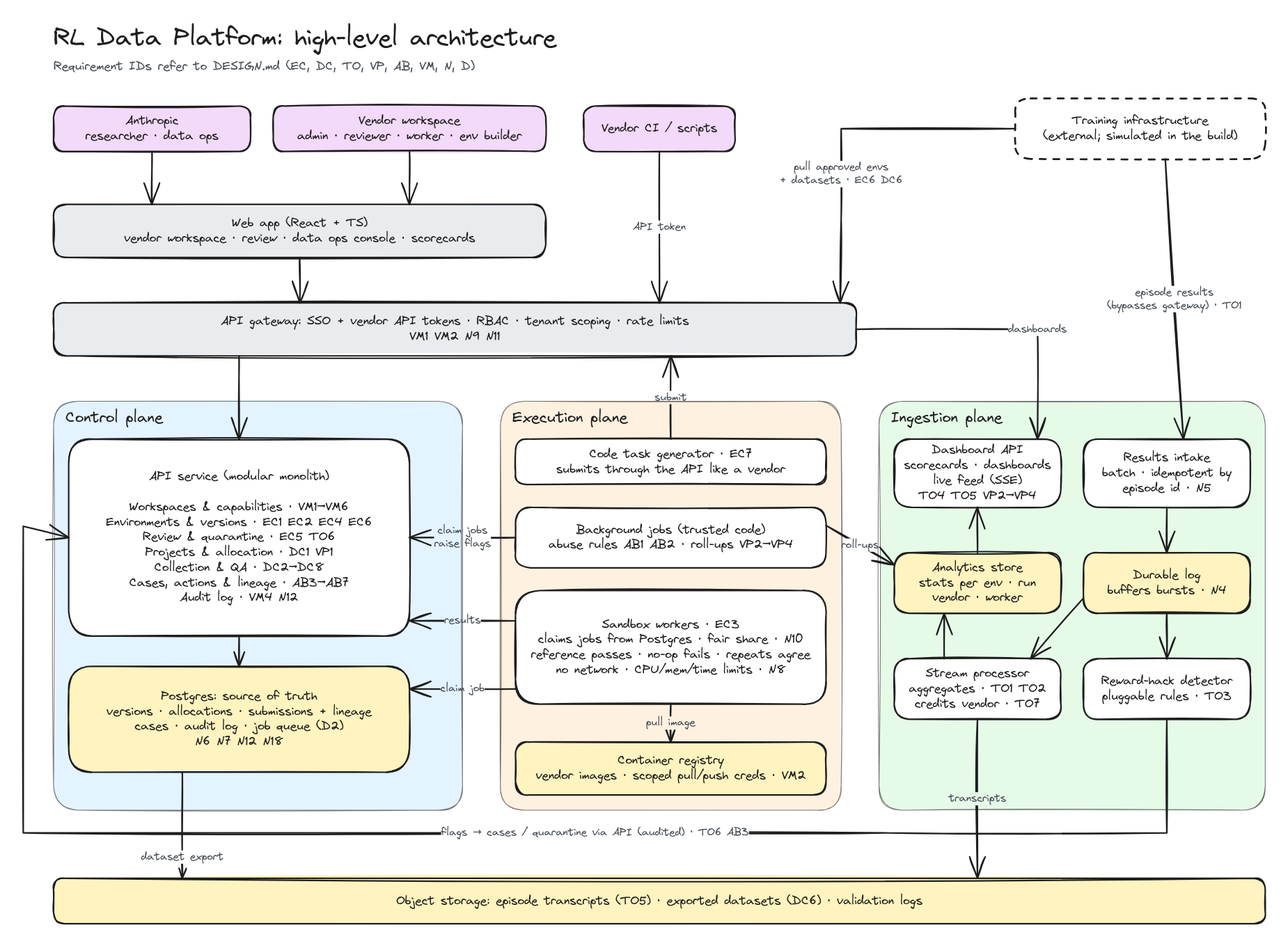
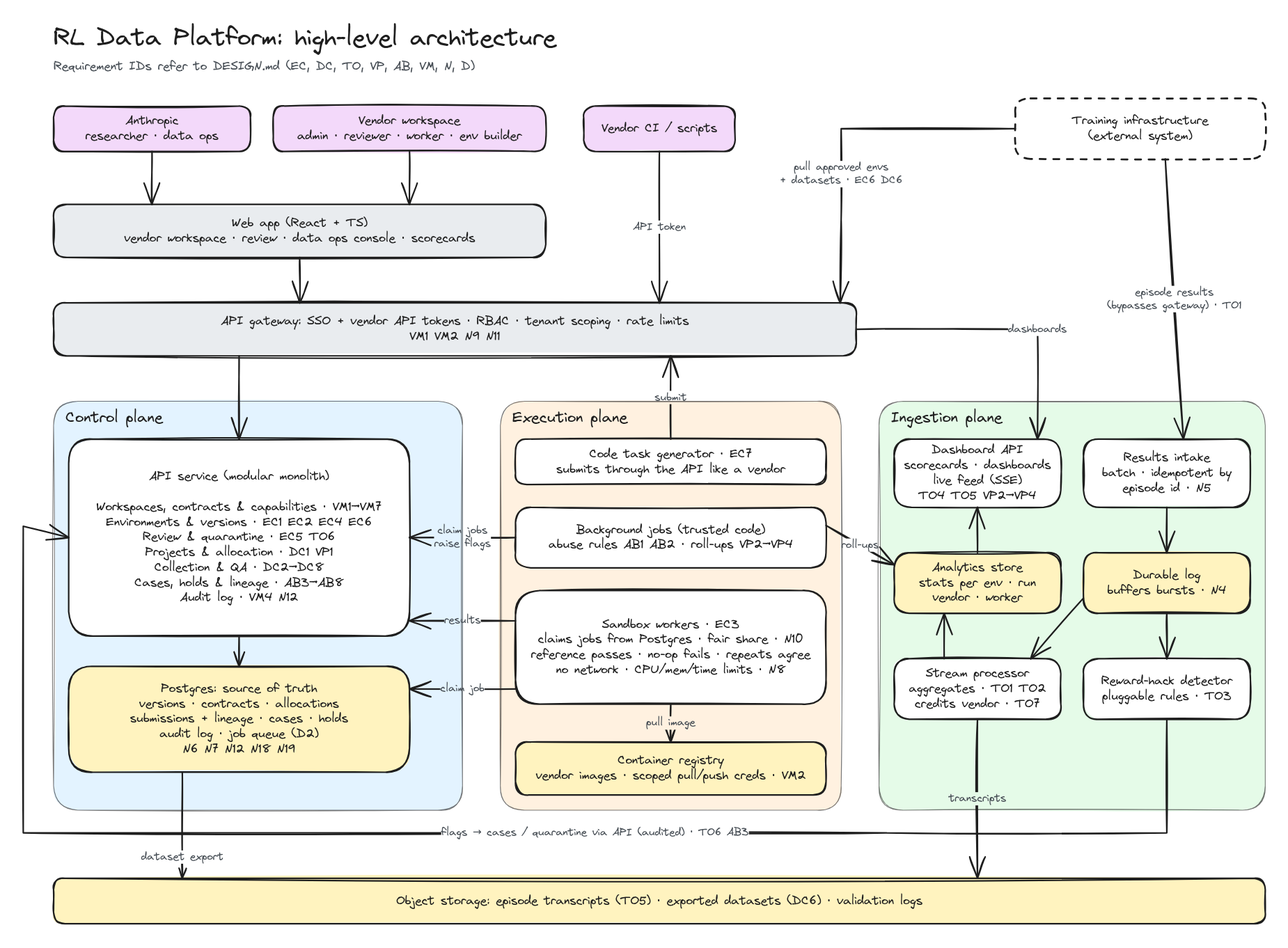
Close gaps between the PRD and the design, diagram and build plan
An audit of DESIGN.md against the PRD found three requirements the PRD
promises but the design didn't support, and three smaller mismatches.
Fixed together so the design, diagram and build plan stay consistent.

Gaps:
- Worker feedback (PRD C2.1): DC3 now has workers see reviewer
  rejections with reasons, never per-task gold results (PD2). API adds
  GET /me/feedback; walkthrough step 7 says so.
- Environment vendors couldn't be costed or scored (PD3, G6, TO7):
  price moved off Allocation into a new Contract entity (vendor, kind
  of work, price, unit, effective dates) recorded by data ops (new
  VM7); allocations point to a contract. Scorecard rows cover a project
  or a vendor's environment work; VP3 scores environment work on
  validation pass rate, review grades and training outcomes.
- Onboarding covered only environment vendors (PRD G7, C6.2): VM3
  checks setup per capability (sample task accepted, or sample
  environment passing); N14 targets first accepted work of either kind.

Mismatches:
- AB3 routes environment cases to data ops, matching PD4 and D13.
- Training "simulated in the build" (DESIGN §7, diagram, DECISIONS F3)
  predated scoping; the chosen build has no training. Now: an external
  system, with a script standing in until a real integration exists.
- Diagram: API modules show contracts (VM1-VM7) and holds (AB3-AB8);
  Postgres lists contracts, holds and N19; training box relabelled.
[…]

diff --git a/DESIGN.md b/DESIGN.md
@@ -61,7 +61,7 @@ Personas are described in the [PRD](PRD.md#3-who-cares-about-what). Each vendor 
 |---|---|---|---|
 | DC1 | A researcher creates a collection project: task type, instructions, answer schema (rate, compare, write, trajectory review), quality bar, volume and deadline | *"labeling workflows"*; *"many task types"*; *"complex agentic tasks"* | |
 | DC2 | Tasks are assigned to workers within the vendors allocated to the project (VP1) | *"human data collection at scale"* | |
-| DC3 | Workers complete tasks in a UI built for non-technical users | *"interfaces that are intuitive for both technical researchers and non-technical labelers"* | |
+| DC3 | Workers complete tasks in a UI built for non-technical users, and see feedback on their rejected work: reviewer rejections with the reviewer's reasons. Gold-task results are never shown per task (PRD PD2) | *"interfaces that are intuitive for both technical researchers and non-technical labelers"*; PRD C2.1 | |
 | DC4 | QA: gold tasks with known answers (rotated regularly), overlapping assignments to measure agreement, reviewer spot checks, and a quality score per worker, computed the same way for every vendor (N16) | *"quality assurance systems"* | A13 |
 | DC5 | Workers can flag broken tasks, and disagreement spikes raise alerts | *"feedback mechanisms that surface reward signal integrity issues early"* | A13 |
 | DC6 | QA-passed data is exported for training | *"connect environment authoring tools, data collection systems, and RL training infrastructure"* | A23 |
@@ -87,7 +87,7 @@ Personas are described in the [PRD](PRD.md#3-who-cares-about-what). Each vendor 
 |---|---|---|---|
 | VP1 | Data ops allocates a project across vendors whose capabilities match, and changes the allocation while it runs | PRD C1.2; *"vendor management workflows"* | A24 |
 | VP2 | Project view: vendors side by side on one project, comparing quality, volume, cost per accepted unit and turnaround. Hourly contracts are converted using time on task (DC9) | PRD C4.1; PRD PD3 | |
-| VP3 | Vendor scorecard: one vendor's performance over time and across projects, with alerts on significant drops | PRD C4.2; PRD PD3 | |
+| VP3 | Vendor scorecard: one vendor's performance over time, across its projects and its environment work, with alerts on significant drops. Environment work is scored on validation pass rate, review grades and training outcomes (TO7) | PRD C4.2; PRD PD3 | |
 | VP4 | Vendor's own view: vendor admins see their scorecard as Anthropic sees it, broken down by worker, with each worker's quality history. Reviewer feedback and agreement are live; gold-task accuracy appears only as a per-worker running score after ~20 gold results, refreshed daily | PRD C4.3, C4.4; PRD PD2 | |
 
 ### Abuse
@@ -96,7 +96,7 @@ Personas are described in the [PRD](PRD.md#3-who-cares-about-what). Each vendor 
 |---|---|---|---|
 | AB1 | Detect worker abuse (answering faster than reading time, near-duplicate answers, AI-generated text where human judgment is required, colluding answer patterns, gold-task farming) and flag it to the vendor admin, using the shared platform rules | PRD C5.1; *"surface reward signal integrity issues early"* | A27 |
 | AB2 | Detect vendor abuse (quality falling while volume rises, removed workers returning, environments with gameable graders or copied benchmark content) and flag it to data ops, using the shared platform rules | PRD C5.2; PRD PD1 | A27 |
-| AB3 | An abuse flag opens a case with its evidence; low-quality signals feed scorecards and feedback and don't open cases. The owner records a decision: the vendor admin for worker cases, data ops for vendor cases | PRD C5.3 | |
+| AB3 | An abuse flag opens a case with its evidence; low-quality signals feed scorecards and feedback and don't open cases. The owner records a decision: the vendor admin for worker cases, data ops for vendor and environment cases | PRD C5.3 | |
 | AB4 | Actions on workers: warn, retrain, suspend, remove | PRD C5.4 | |
 | AB5 | Actions on vendors: lower allocation, pause, offboard, each after the vendor has had a chance to respond | PRD C5.5 | |
 | AB6 | Clean-up: find everything a flagged worker, vendor or environment version produced (lineage), then discard, re-label or quarantine it | PRD C5.6; *"audit trails"* | |
@@ -111,10 +111,11 @@ Personas are described in the [PRD](PRD.md#3-who-cares-about-what). Each vendor 
 |---|---|---|---|
 | VM1 | Data ops creates vendor workspaces; vendor admins invite users and assign roles (admin, reviewer, worker, environment builder); vendors see only their own data | *"multi-tenant platforms with role-based access"* (nice-to-have) | A18 |
 | VM2 | Vendors manage scoped API tokens and container registry credentials: create, rotate, revoke | *"Docker registry access, API token management"* | |
-| VM3 | Self-serve onboarding checks setup: token works, image pushes, sample environment passes | *"onboarding automation and documentation tooling so new vendors and internal users ramp up in hours, not weeks"* | A22 |
+| VM3 | Self-serve onboarding checks setup for the vendor's capabilities: for human work, workers are invited and a sample task is completed and accepted; for environments, the API token works, an image pushes and a sample environment passes validation | *"onboarding automation and documentation tooling so new vendors and internal users ramp up in hours, not weeks"* | A22 |
 | VM4 | Every state change is recorded with who, what and when | *"audit trails"* (nice-to-have) | A18 |
 | VM5 | Everything in the UI is also available through the API | *"backend services and APIs"* | |
 | VM6 | Data ops sets each vendor's capabilities (human work, environments, or both, plus domains), which decide what it can be allocated | PRD C1.2 | A24 |
+| VM7 | Data ops records each vendor's contracts: the kind of work (human work or environments), price, price unit (per hour, per task or per environment) and effective dates. A vendor can hold several, and allocations point to one | PRD PD3 | |
 
 ## 4. Core flows
 
@@ -155,7 +156,7 @@ The system is light on reads, heavy on writes for training results, and compute-
 | N11 | Credential security | Tokens are scoped, hashed at rest, rotatable and revocable | *"API token management"* | |
 | N12 | Audit and lineage | Append-only change log; any episode traces back to its environment version, vendor and reviewer | *"audit trails"*; the trace is how a *"reward signal integrity"* issue is pinned to its source | A18 |
 | N13 | Adaptability | New task types and environment schemas ship without a database migration (schema-driven forms and configs); deploys happen many times a day | *"priorities shift"*; *"many task types"*; *"react to what researchers need next"* | |
-| N14 | Fast onboarding | A new vendor goes from invite to first passing environment in < 1 day, without help | *"ramp up in hours, not weeks"* | A22 |
+| N14 | Fast onboarding | A new vendor goes from invite to first accepted work (an accepted sample task or a passing environment) in < 1 day, without help | *"ramp up in hours, not weeks"* | A22 |
 | N15 | Monitoring the platform itself | Metrics and alerts on queue backlog, sandbox failure rate, ingestion lag | A dashboard that silently goes stale is worse than none | |
 | N16 | Consistent measurement | Quality, volume, cost and turnaround are computed by the platform from its own records, the same way for every vendor. Vendor-reported numbers are never an input | Vendors can only be compared fairly on an identical measure (PRD G2); PRD PD3 | |
 | N17 | Detection secrecy | Which tasks are gold, and how abuse detectors work, is never visible to vendors or workers; they see results, not the method. Gold accuracy is shown only in aggregate (VP4) and gold tasks are rotated | Known gold tasks and known rules can be gamed; PRD PD2 | |
@@ -164,7 +165,7 @@ The system is light on reads, heavy on writes for training results, and compute-
 
 ## 7. Out of scope
 
-- Actually training models. Training infrastructure is simulated by a script that pulls approved environments and sends episode results (A23).
+- Actually training models. Training infrastructure is an external system (A23). Until a real integration exists, a script stands in for it, pulling approved environments and sending episode results.
 - Grading with a model (LLM-as-judge).
 - Paying vendors or workers. The platform produces the numbers billing would use.
 - Recruiting workers and holding their real identities. Vendors own both (PRD PD1).
@@ -228,10 +229,10 @@ The system splits into three planes, because the scale estimate shows three load
 
 Each step lists the components involved, what each one is for, and what breaks without it.
 
-**1. Vendors get a workspace, and only see what's theirs.** Data ops sets up a vendor's workspace and records what it supplies: human work, environments, or both. The vendor admin then invites their own reviewers, workers and environment builders, and their scripts get API keys.
+**1. Vendors get a workspace, and only see what's theirs.** Data ops sets up a vendor's workspace, records what it supplies (human work, environments, or both) and enters its contracts: price, and whether it's paid by the hour, the task or the environment. The vendor admin then invites their own reviewers, workers and environment builders, and their scripts get API keys.
 - *Web app:* one site with a surface for each role. Without it, vendors and workers, many of them non-technical, would need custom tooling.
 - *API gateway:* checks who each request comes from and what they may see. Without it, every part of the system would repeat its own permission checks, and one missed check would expose one vendor's work to another. It can be middleware inside the API service; it's drawn separately to show the responsibility.
-- *Workspaces module:* creates workspaces, records capabilities, invites people, issues and revokes keys. Without it, data ops would set up every vendor by hand, against the posting's *"ramp up in hours, not weeks"*.
+- *Workspaces module:* creates workspaces, records capabilities and contracts, invites people, issues and revokes keys. Without it, data ops would set up every vendor by hand, against the posting's *"ramp up in hours, not weeks"*.
 - *Pseudonymous worker IDs:* Anthropic sees each worker as an ID, never a name. Vendors keep their workers' identities, so they can work with the platform without handing over personal data.
 
 **2. An environment builder makes a practice task.** They write the task ("fix this bug"), package the code it runs in as a container, and include an answer key: a reference solution plus the grader that scores attempts.
@@ -249,11 +250,11 @@ Each step lists the components involved, what each one is for, and what breaks w
 - *Catalog API:* training asks for "all approved tasks" and gets exact versions. Without it, training would read our database directly, and the two systems couldn't change independently.
 - *Code task generator:* creates coding tasks in bulk and submits them through the same front door as a vendor, so they get the same checks. Without that reuse, we'd build and maintain a second quality pipeline.
 
-**6. Data ops splits human-data work across vendors.** A researcher defines a project (such as "compare these pairs of answers, 50,000 of them, by Friday"), and data ops allocates it across vendors that can do that kind of work.
+**6. Data ops splits human-data work across vendors.** A researcher defines a project (such as "compare these pairs of answers, 50,000 of them, by Friday"), and data ops allocates it across vendors that can do that kind of work, each under one of its contracts.
 - *Allocation module:* records which vendors get how much of each project, and lets data ops shift work while the project runs. Without it, comparing vendors on the same work would be impossible, because they'd never do the same work.
 
 **7. Workers produce judgments.** Workers at each allocated vendor answer tasks. Some vendors have their own reviewers check the answers before they go to Anthropic.
-- *Collection and QA module:* hands out tasks, collects answers, and measures each worker's quality three ways: tasks with known answers (gold), tasks sent to several workers for comparison, and reviewer spot checks. The measurement is identical for every vendor. Without QA, careless or rushed answers go straight into training.
+- *Collection and QA module:* hands out tasks, collects answers, and measures each worker's quality three ways: tasks with known answers (gold), tasks sent to several workers for comparison, and reviewer spot checks. The measurement is identical for every vendor. Workers see why a reviewer rejected their work, but never which of their answers were gold. Without QA, careless or rushed answers go straight into training.
 - *Gold answers in a separate table:* workers never see them, vendors never learn which tasks were gold, and the gold set is rotated. Without that, the quality test could be gamed.
 - *Lineage on every answer:* each accepted answer records the task, the worker's ID, the vendor and the review. Without it, removing a bad worker's answers later would be guesswork.
 - *Object storage (exports):* finished, checked batches are saved as files for training to download.
@@ -264,7 +265,7 @@ Each step lists the components involved, what each one is for, and what breaks w
 - *Separate path that skips the gateway:* this flood never touches the database behind the website, so the site stays fast.
 - *Stream processor:* rolls raw reports up into per-task and per-run statistics, and credits each result to the vendor that built the task.
 
-**9. Everyone sees the same scoreboard.** Data ops compares vendors on one project and follows each vendor over time. Each vendor admin sees their own scorecard, the same numbers Anthropic sees, broken down by worker. Reviewer feedback and agreement show up as they happen; gold-task accuracy shows up as a daily running score, so no single task can be identified as a test.
+**9. Everyone sees the same scoreboard.** Data ops compares vendors on one project and follows each vendor over time, across both human-data projects and environment work. Each vendor admin sees their own scorecard, the same numbers Anthropic sees, broken down by worker. Reviewer feedback and agreement show up as they happen; gold-task accuracy shows up as a daily running score, so no single task can be identified as a test.
 - *Scorecard jobs:* background jobs that roll human-data quality, volume, cost per accepted unit and turnaround up per vendor, per project and per worker. The platform computes every number from its own records; vendors' own reports are never an input. Without that, vendors couldn't be compared fairly.
 - *Analytics store:* a database built for questions like "this vendor's acceptance rate by week". Without it, crunching millions of rows in Postgres would slow down everything else on it.
 - *Dashboard API:* scorecards, comparisons, run dashboards and a live feed, so researchers can watch a training run as it happens.
@@ -285,8 +286,8 @@ Each step lists the components involved, what each one is for, and what breaks w
 |---|---|---|---|
 | Web app | Edge | One React + TS app with a surface per role: vendor workspace (admin, reviewer, worker, environment builder), researcher review, data ops console, dashboards and scorecards | EC4 EC5 DC3 DC8 TO4 TO5 VP2–VP4 AB3 |
 | API gateway | Edge | Authenticates (SSO for people, API tokens for vendors and services), applies roles and workspace scoping, rate-limits | VM1 VM2 N9 N11 |
-| API service | Control | One service split into modules: workspaces and capabilities, environments and versions, review and quarantine, projects and allocation, collection and QA, cases and actions, lineage and clean-up, audit | EC1–EC6 DC1–DC8 VP1 AB3–AB7 VM1–VM6 TO6 |
-| Postgres | Control | Source of truth: immutable versions, the version state machine, allocations, assignments and submissions with lineage, cases, the audit log, and the job queue (a table) | N6 N7 N12 N18 |
+| API service | Control | One service split into modules: workspaces, capabilities and contracts, environments and versions, review and quarantine, projects and allocation, collection and QA, cases and actions, lineage and clean-up, audit | EC1–EC6 DC1–DC8 VP1 AB3–AB8 VM1–VM7 TO6 |
+| Postgres | Control | Source of truth: immutable versions, the version state machine, contracts, allocations, assignments and submissions with lineage, cases and holds, the audit log, and the job queue (a table) | N6 N7 N12 N18 N19 |
 | Job queue | Control (a Postgres table) | Holds validation, abuse-detection and scorecard jobs. Workers claim the next one with `SELECT … FOR UPDATE SKIP LOCKED`; validation jobs are taken from the vendor with the fewest running first | N10 |
 | Sandbox workers | Execution | Run each submitted version: reference solution must pass, no-op must fail, repeat runs must agree, difficulty estimated. No network; CPU, memory and time limits | EC3 N8 |
 | Background jobs | Execution | Trusted platform code: abuse-detection rules over submissions and vendors, and scorecard roll-ups written to the analytics store | AB1 AB2 VP2–VP4 N16 N17 |
@@ -333,7 +334,8 @@ Each step lists the components involved, what each one is for, and what breaks w
 | ValidationRun | id, version, check (reference, no-op, repeat), result, logs_uri | |
 | Review | id, subject (version or submission), reviewer, grade, rubric scores, feedback | Researcher or vendor reviewer (EC5, DC8) |
 | Project | id, task_type schema and schema version, instructions, quality bar, volume, deadline, overlap, gold rate | DC1 |
-| Allocation | id, project, vendor, share, price, price unit (hour, task or environment), status | VP1, PRD PD3 |
+| Contract | id, vendor, kind of work (human work or environments), price, price unit (hour, task or environment), effective from, effective to | Raw cost inputs (VM7, PRD PD3) |
+| Allocation | id, project, vendor, contract, share, status | VP1 |
 | Task / Assignment / Submission | task payload; assignment to a worker; the answer, with worker ID, vendor, review, acceptance, time on task and hold status | One open assignment per worker and task (N7); lineage (D14) |
 | GoldAnswer | task, answer | Separate table (D8) |
 | Dataset | id, project, filter, uri, created_at | An exported snapshot (DC6) |
@@ -341,14 +343,14 @@ Each step lists the components involved, what each one is for, and what breaks w
 | Flag | id, subject (worker, vendor or version), rule (shared or vendor-private) and rule version, or person; evidence | AB1 AB2 TO3 |
 | Case | id, subject, owner, flags, holds, vendor response, status, decision, decided_by | D13, N18 |
 | Action | id, case, type (warn, retrain, suspend, remove, lower allocation, pause, offboard, discard, re-label, quarantine) | AB4–AB6 |
-| Scorecard row | vendor, project, worker (optional), period, metric version, quality, volume, cost per accepted unit, turnaround | Analytics store (D11) |
+| Scorecard row | vendor, work (a project, or the vendor's environment work), worker or environment builder (optional), period, metric version, quality, volume, cost per accepted unit, turnaround | Analytics store (D11) |
 | AuditEvent | id, actor, action, entity, before, after, at | Append-only (VM4) |
 
 ### API sketch
 
 | Call | Who | Requirements |
 |---|---|---|
-| `POST /orgs`, `PUT /orgs/{id}/capabilities` | Data ops | VM1 VM6 |
+| `POST /orgs`, `PUT /orgs/{id}/capabilities`, `POST /orgs/{id}/contracts` | Data ops | VM1 VM6 VM7 |
 | `POST /orgs/{id}/invites`, `POST /orgs/{id}/tokens`, `DELETE /tokens/{id}`, `GET /onboarding/checks` | Vendor admin | VM1–VM3 |
 | `POST /environments`, `POST /environments/{id}/versions`, `POST /versions/{id}/submit`, `GET /versions/{id}` | Environment builder | EC1–EC4 |
 | `GET /versions?status=in_review`, `POST /versions/{id}/reviews` | Researcher | EC5 |
@@ -356,7 +358,7 @@ Each step lists the components involved, what each one is for, and what breaks w
 | `GET /catalog` | Training | EC6 |
 | `POST /projects`, `POST /projects/{id}/tasks` | Researcher | DC1 |
 | `POST /projects/{id}/allocations`, `PATCH /allocations/{id}` | Data ops | VP1 |
-| `POST /assignments/next`, `POST /assignments/{id}/submit`, `POST /tasks/{id}/flag` | Worker | DC2 DC3 DC5 |
+| `POST /assignments/next`, `POST /assignments/{id}/submit`, `POST /tasks/{id}/flag`, `GET /me/feedback` | Worker | DC2 DC3 DC5 |
 | `POST /submissions/{id}/review` | Vendor reviewer | DC8 |
 | `GET /projects/{id}/quality`, `POST /projects/{id}/exports` | Researcher | DC4 DC6 DC7 |
 | `GET /projects/{id}/vendors` | Data ops, researcher | VP2 |

diff --git a/BUILD.md b/BUILD.md
@@ -3,7 +3,7 @@
 | | |
 |---|---|
 | Status | Planned |
-| Timebox | About a week: ~32 hours across nine milestones |
+| Timebox | About a week: ~33 hours across nine milestones |
 | Stack | Python (FastAPI, async) · Postgres · React + TypeScript (Vite) · Docker Compose |
 | Delivered as | This repo, runnable with `docker compose up`, plus a 2–3 minute recorded walkthrough embedded in the README |
 | Related | [`PRD.md`](PRD.md) · [`DESIGN.md`](DESIGN.md) · [`DECISIONS.md`](DECISIONS.md) · [`GLOSSARY.md`](GLOSSARY.md) |
@@ -33,8 +33,8 @@ The seeded scenario runs on its own, so a reviewer can watch it from start to fi
 | Area | Requirements | Notes |
 |---|---|---|
 | Workspaces and roles | VM1, VM4, VM6, N9 | Seeded demo logins per role instead of real SSO. Workspace scoping is enforced in API middleware, which stands in for the gateway |
-| Projects and allocation | DC1, VP1 | Allocation records share, price and price unit (PD3) |
-| Doing the work | DC2, DC3, DC9 | Assignment uses the Postgres job-queue pattern (`SKIP LOCKED`, D2). Time on task is recorded on every submission |
+| Projects, contracts and allocation | DC1, VP1, VM7 | Contracts hold price and price unit (PD3); each allocation points to a contract |
+| Doing the work | DC2, DC3, DC9 | Assignment uses the Postgres job-queue pattern (`SKIP LOCKED`, D2). Time on task is recorded on every submission. Workers see reviewer rejections with reasons, never per-task gold results |
 | Measuring quality | DC4, DC7, N16, N17 | Hidden, rotatable gold tasks, overlap and agreement, worker quality scores |
 | Scorecards | VP2, VP3, VP4, D11 | Background jobs compute roll-ups into Postgres summary tables, which stand in for the analytics store. The vendor's own view follows PD2 |
 | Abuse | AB1, AB3, AB4, AB6, AB7, AB8, D13, D16, N18 | Worker-level rules, cases, automatic holds, human decisions, lineage clean-up |
@@ -58,12 +58,12 @@ These keep the boundaries from [`DESIGN.md`](DESIGN.md) but use simpler parts:
 
 | Left out | Requirements | Why |
 |---|---|---|
-| Environment pipeline and sandboxing | EC1–EC7, N8, D3, D4 | The costliest part to do safely, and a separate story. It would be the next slice |
+| Environment pipeline and sandboxing | EC1–EC7, N8, D3, D4 | The costliest part to do safely, and a separate story. It would be the next slice, along with environment contracts and environment work on scorecards |
 | Training ingestion and observability | TO1–TO7, D5, D6 | Depends on environments |
 | Vendor-level abuse and actions | AB2, AB5 | P1 in the PRD. First stretch goal |
 | Vendor reviewer | DC8 | P1 in the PRD |
 | Vendor-private rules, cross-vendor match | AB9, AB10 | P2 in the PRD |
-| Onboarding, API tokens, registry | VM2, VM3 | Not needed to tell the story |
+| Onboarding, API tokens, registry | VM2, VM3, N14 | Not needed to tell the story; vendors are seeded |
 | Nice-to-haves | NH1–NH5 | Beyond the posting by definition |
 
 ### Detecting AI-pasted answers: an honest note
@@ -80,7 +80,7 @@ From the [decision register](DECISIONS.md#what-this-means-for-the-first-build): 
 | 2 | Lineage on every submission (D14) | Every submission stores task, worker ID, vendor, project, schema version and review; every dataset row references its submission | M2, M7 |
 | 3 | Append-only audit log (VM4) | Every state change writes an audit event; the table has no update or delete path | M1 |
 | 4 | Gold tasks secret and rotatable (D8, PD2) | Gold answers in their own table, never read by worker or vendor endpoints; rotation by gold-set version | M2, M3 |
-| 5 | Raw cost inputs (PD3, DC9) | Price and unit on each allocation; time on task on each submission | M2 |
+| 5 | Raw cost inputs (PD3, DC9) | Price and unit on each contract (VM7); time on task on each submission | M2 |
 | 6 | Opaque, vendor-scoped worker IDs (D12) | Worker IDs are random and per vendor; names exist only inside the vendor's workspace | M1 |
 | 7 | Metric and rule versions recorded (N19) | Every scorecard row and flag stores the version that produced it | M5, M6 |
 
@@ -92,14 +92,14 @@ Each milestone ends with something that runs and a check that proves it. Hours a
 |---|---|---|---|---|
 | M0 | Skeleton | Docker Compose with Postgres, the FastAPI app, migrations, the React app, a test runner and seeded demo logins | `docker compose up` serves a login page and a health endpoint; tests run in one command | 2 |
 | M1 | Workspaces, roles and audit | Orgs with capabilities, users and roles, vendor-scoped worker IDs, workspace-scoping middleware, append-only audit log | A test shows Vendor A's admin can't read Vendor B's data; every write creates an audit event | 3 |
-| M2 | Projects, allocation and work | Projects with schema versions, tasks, hidden gold answers, allocations with price and unit, assignment queue, submissions with lineage and time on task | A worker can claim and answer tasks through the API; each submission carries full lineage | 4 |
-| M3 | Quality | Gold scoring, overlap and agreement, acceptance, worker quality scores, gold-set rotation | Seeded answers produce the expected accuracy and agreement; no worker or vendor endpoint returns gold data (tested) | 4 |
+| M2 | Projects, contracts and work | Projects with schema versions, tasks, hidden gold answers, contracts with price and unit, allocations pointing to contracts, assignment queue, submissions with lineage and time on task | A worker can claim and answer tasks through the API; each submission carries full lineage | 4 |
+| M3 | Quality | Gold scoring, overlap and agreement, researcher spot checks with reasons, acceptance, worker quality scores, gold-set rotation, the worker's feedback view | Seeded answers produce the expected accuracy and agreement; workers see spot-check rejections with reasons; no worker or vendor endpoint returns gold data (tested) | 5 |
 | M4 | Simulator | Synthetic workers with profiles (careful, average, sloppy, AI-paster) driving the public API; the demo scenario script | One command runs the full demo scenario against a fresh database | 3 |
 | M5 | Scorecards | Roll-up jobs on the Postgres queue with metric versions; project comparison, vendor scorecard over time, vendor's own view with PD2's split | The project view ranks the three vendors; Vendor C's dip is visible; vendor views hide per-task gold results | 4 |
 | M6 | Abuse and cases | Versioned worker rules (speed, paste, near-duplicate), flags, cases with evidence, automatic holds, vendor-admin decisions and actions, data ops' read-only view | The AI-paster is flagged, held and suspended in the scenario; every action links to its case | 5 |
 | M7 | Clean-up and export | Lineage query, clean-up of a decided case, dataset export and re-export | Re-exported dataset contains none of the removed worker's answers; the audit log shows the chain | 3 |
 | M8 | Polish and walkthrough | UI pass across the four role views (researcher, data ops, vendor admin, worker), README with screenshots, recorded walkthrough | Someone new can run the demo from the README alone; the recording covers the nine-step story | 4 |
-| | | | **Total** | **32** |
+| | | | **Total** | **33** |
 
 ### Stretch, in order
 

diff --git a/DECISIONS.md b/DECISIONS.md
@@ -21,7 +21,7 @@ Every product and design decision made so far, sorted by how hard it would be to
 | VM4 / N12 | The audit log is append-only | Events that were never recorded, or were overwritten, can't be recovered | Write audit events from the first state change |
 | PD2 | Gold-task accuracy is shown to vendors only as a daily aggregate | Tightening this later is easy. **Loosening** it is one-way: once per-task gold results are shown, those gold tasks are known and have to be retired | Rotate gold tasks (DC4), so any exposed set is replaced over time |
 | D8, D15 | Gold answers and detector rules are never exposed to vendors or workers | Same as PD2: a leaked gold set or a published rule can't be made secret again | Rotate gold tasks; keep rules pluggable (A27) so a known rule can be replaced |
-| PD3 | Cost is compared per accepted unit, using platform-measured time on task | The comparison itself is two-way (it's a calculation). What's one-way is **recording the inputs**: a contract's price and unit, and each submission's time on task (DC9). Data not captured can't be recomputed under a different definition | Store raw inputs, never only the computed cost |
+| PD3 | Cost is compared per accepted unit, using platform-measured time on task | The comparison itself is two-way (it's a calculation). What's one-way is **recording the inputs**: each contract's price and unit (VM7), and each submission's time on task (DC9). Data not captured can't be recomputed under a different definition | Store raw inputs, never only the computed cost |
 
 ## Hardens
 
@@ -40,7 +40,7 @@ Every product and design decision made so far, sorted by how hard it would be to
 | ID | Decision | What changing it would cost |
 |---|---|---|
 | F2 / A24 | Vendors have capabilities (human work, environments, or both), set by data ops | A setting and its admin screen |
-| F3 / A23 | Training is a separate system; the build simulates it | Replacing the simulator with a real integration (see D5, D10 for the contract) |
+| F3 / A23 | Training is a separate system; a script stands in for it until a real integration exists | Replacing the stand-in with a real integration (see D5, D10 for the contract) |
 | PD4 / D16 | Low quality opens no case; abuse opens a case; data is held automatically, people are acted on only by human decision | Policy and workflow code. The holds themselves are reversible by design. Individual actions against people aren't, which is exactly why they need a human |
 | D1 | The control plane is one modular service | Splitting a module into its own service. Cheap while module boundaries stay clean, expensive if they blur |
 | D2 | The job queue is a Postgres table | Moving to a dedicated broker plus an outbox. The jobs themselves are idempotent, so no data is lost |

diff --git a/GLOSSARY.md b/GLOSSARY.md
@@ -29,6 +29,7 @@ Terms used in [`POSTING.md`](POSTING.md), [`PRD.md`](PRD.md) and [`DESIGN.md`](D
 | **Project** | A unit of work defined by a researcher: what to produce, instructions, quality bar, volume and deadline. Can be split across several vendors | |
 | **Task** | One unit of human work inside a project, such as "compare these two answers". Engineering term: *item* | *"many task types"* |
 | **Submission** | A worker's answer to a task, or a vendor's upload of an environment version | *"create, submit, and iterate"* |
+| **Contract** | The commercial terms between Anthropic and a vendor for one kind of work: price, the unit it's priced in (per hour, per task or per environment) and the dates it applies. Allocations point to a contract | |
 | **Allocation** | How much of a project each vendor receives | |
 | **Human data** | Data produced by workers: labels, ratings, comparisons, written answers, reviews of model transcripts | *"human data collection"* |
 | **Labeling workflow** | The steps a task goes through: assignment, answer, review, acceptance or rejection | *"labeling workflows"* |
